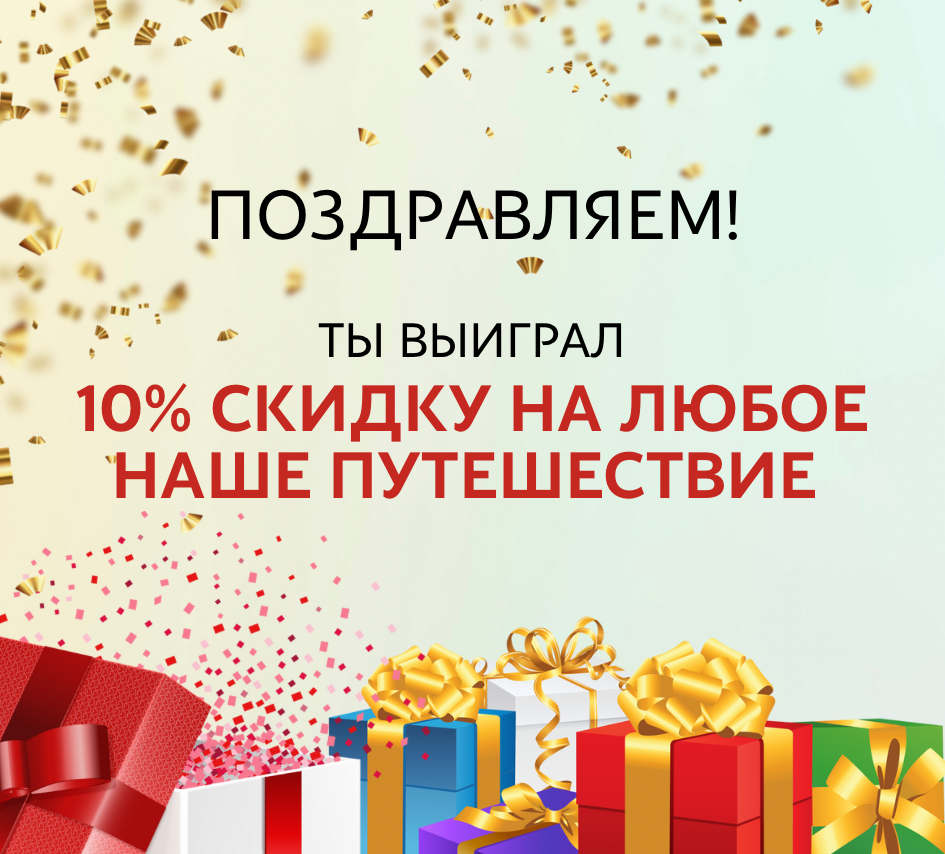
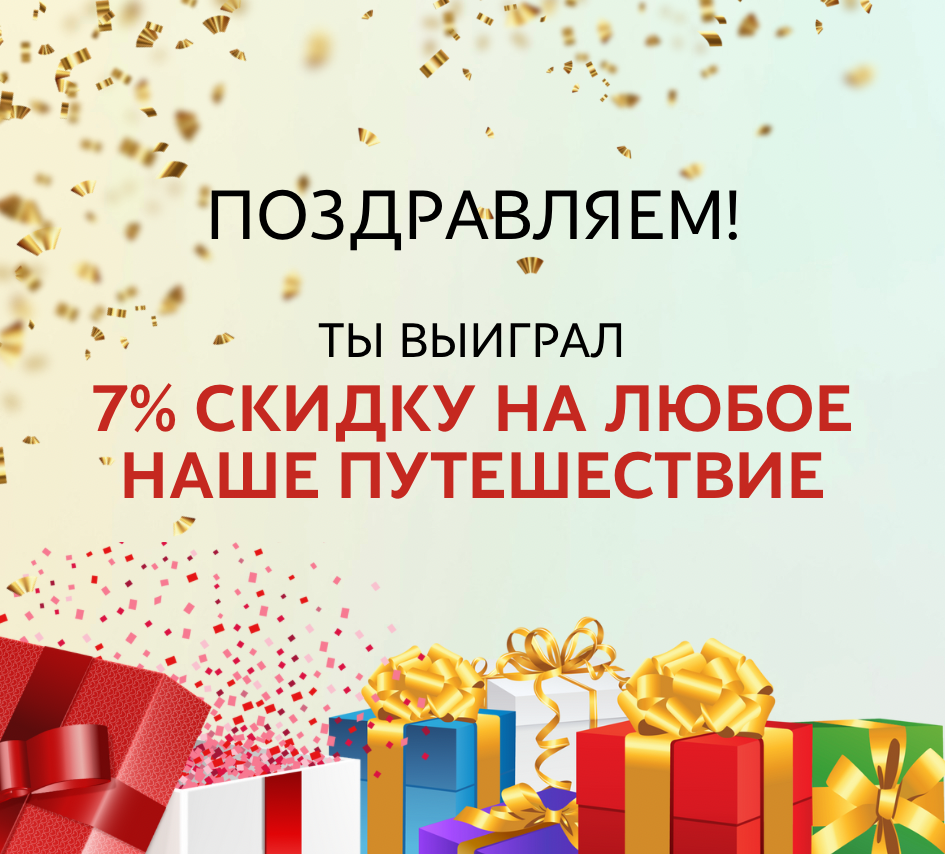
Add files via upload

diff --git a/wheel/index.js b/wheel/index.js
@@ -49,7 +49,7 @@ let rand;
 let i;
 let randNumber
 		function spin1 () {
-			a = [{id: 'Секретный подарок из Алтая', int: 3},{id: '10% скидка на любое наше путешествие', int: 20},{id: 'Именное полотенце от Fresh Adventures', int: 2},{id: '5% скидка на любое наше путешествие', int: 300},{id: 'Именная майка от Fresh Adventures', int: 2},{id: 'Секретный подарок из Гималаев', int: 3}, {id: 'Путешествие в Полесье', int: 1}, {id: '50% скидка на путешествие в Каппадокию', int: 0}];
+			a = [{id: 'Секретный подарок из Алтая', int: 3},{id: '7% скидка на любое наше путешествие', int: 20},{id: 'Именное полотенце от Fresh Adventures', int: 2},{id: '5% скидка на любое наше путешествие', int: 300},{id: 'Именная майка от Fresh Adventures', int: 2},{id: 'Секретный подарок из Гималаев', int: 3}, {id: 'Путешествие в Полесье', int: 1}, {id: '50% скидка на путешествие в Каппадокию', int: 0}];
 
 
 		sum = 0;
@@ -71,7 +71,7 @@ return randNumber = a[i].id
 		if (a[i].id === 'Секретный подарок из Алтая') {
 			container.style.transform = 'rotate(1080deg)'
 		}
-		if (a[i].id === '10% скидка на любое наше путешествие') {
+		if (a[i].id === '7% скидка на любое наше путешествие') {
 			container.style.transform = 'rotate(1025deg)'
 		}
 		if (a[i].id === 'Именное полотенце от Fresh Adventures') {
@@ -96,6 +96,7 @@ return randNumber = a[i].id
 			container.style.filter = 'blur(4px)'
 			const modalPrize = document.querySelector('.modal--prize');
 			const prizeText = document.createElement('p');
+			const instText = document.createElement('p')
 			
 			circleC.style.top = '48.5%'
 			modalPrize.style.display = 'block';
@@ -103,7 +104,7 @@ return randNumber = a[i].id
 			if (a[i].id === 'Секретный подарок из Алтая') {
 				prize1.style.display = 'flex'
 			}
-			if (a[i].id === '10% скидка на любое наше путешествие') {
+			if (a[i].id === '7% скидка на любое наше путешествие') {
 				prize2.style.display = 'flex'
 			}
 			if (a[i].id === 'Именное полотенце от Fresh Adventures') {
@@ -127,6 +128,9 @@ return randNumber = a[i].id
 			prizeText.innerHTML = 'Спасибо за участие!<br>Мы свяжемся с вами в ближайшее время<br> &#128155;'
 			prizeText.classList.add('prize__text')
 			modalPrize.appendChild(prizeText)
+			instText.innerHTML = 'А ты пока сделай репост в Инстаграм,<br>мы проверим &#128521;'
+			instText.classList.add('inst__text')
+			modalPrize.appendChild(instText)
 		
 		 }, 10000);
 		}

diff --git a/wheel/index.html b/wheel/index.html
@@ -121,7 +121,7 @@
     <p class="heading__p">
       и получи шанс выиграть
       <span class="red strong">бесплатное путешествие,</span> скидку
-      <span class="red"><br />в 5%, 10% и 50%,</span> а также секретные подарки
+      <span class="red"><br />в 5%, 7% и 50%,</span> а также секретные подарки
       из разных стран<br />
       и многое другое!
     </p>
@@ -132,7 +132,7 @@
         из Алтая
       </div>
       <div class="two text">
-        10% скидка<br />
+      7% скидка<br />
         на любое наше путешествие
       </div>
       <div class="three text">

diff --git a/wheel/index.css b/wheel/index.css
@@ -488,7 +488,16 @@ z-index: 3000;
 		width: 100%;
 		font-size: 1.3rem;
 		position: absolute;
-		top: 70%;
+		top: 65%;
+		left: 50%;
+		transform: translateX(-50%);
+	}
+	.inst__text {
+		font-family: 'Jost',sans-serif;
+		font-size: 1.3rem;
+		width: 100%;
+		position: absolute;
+		top: 82%;
 		left: 50%;
 		transform: translateX(-50%);
 	}
